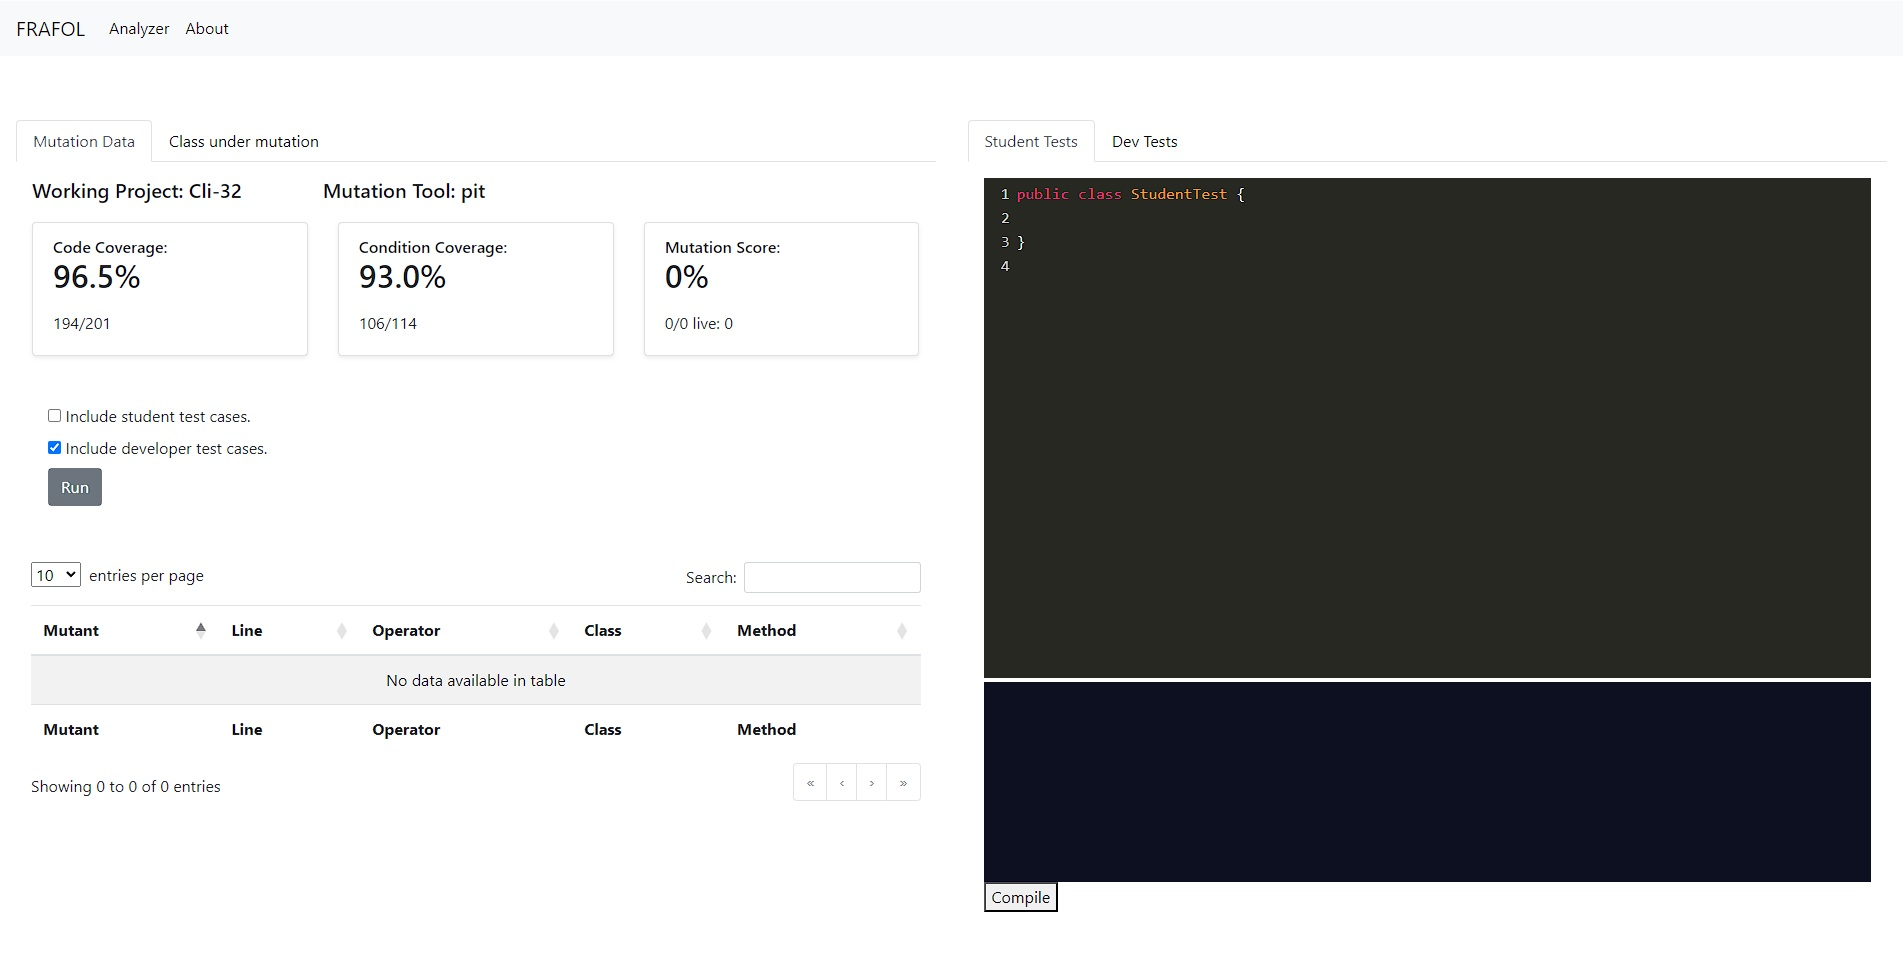
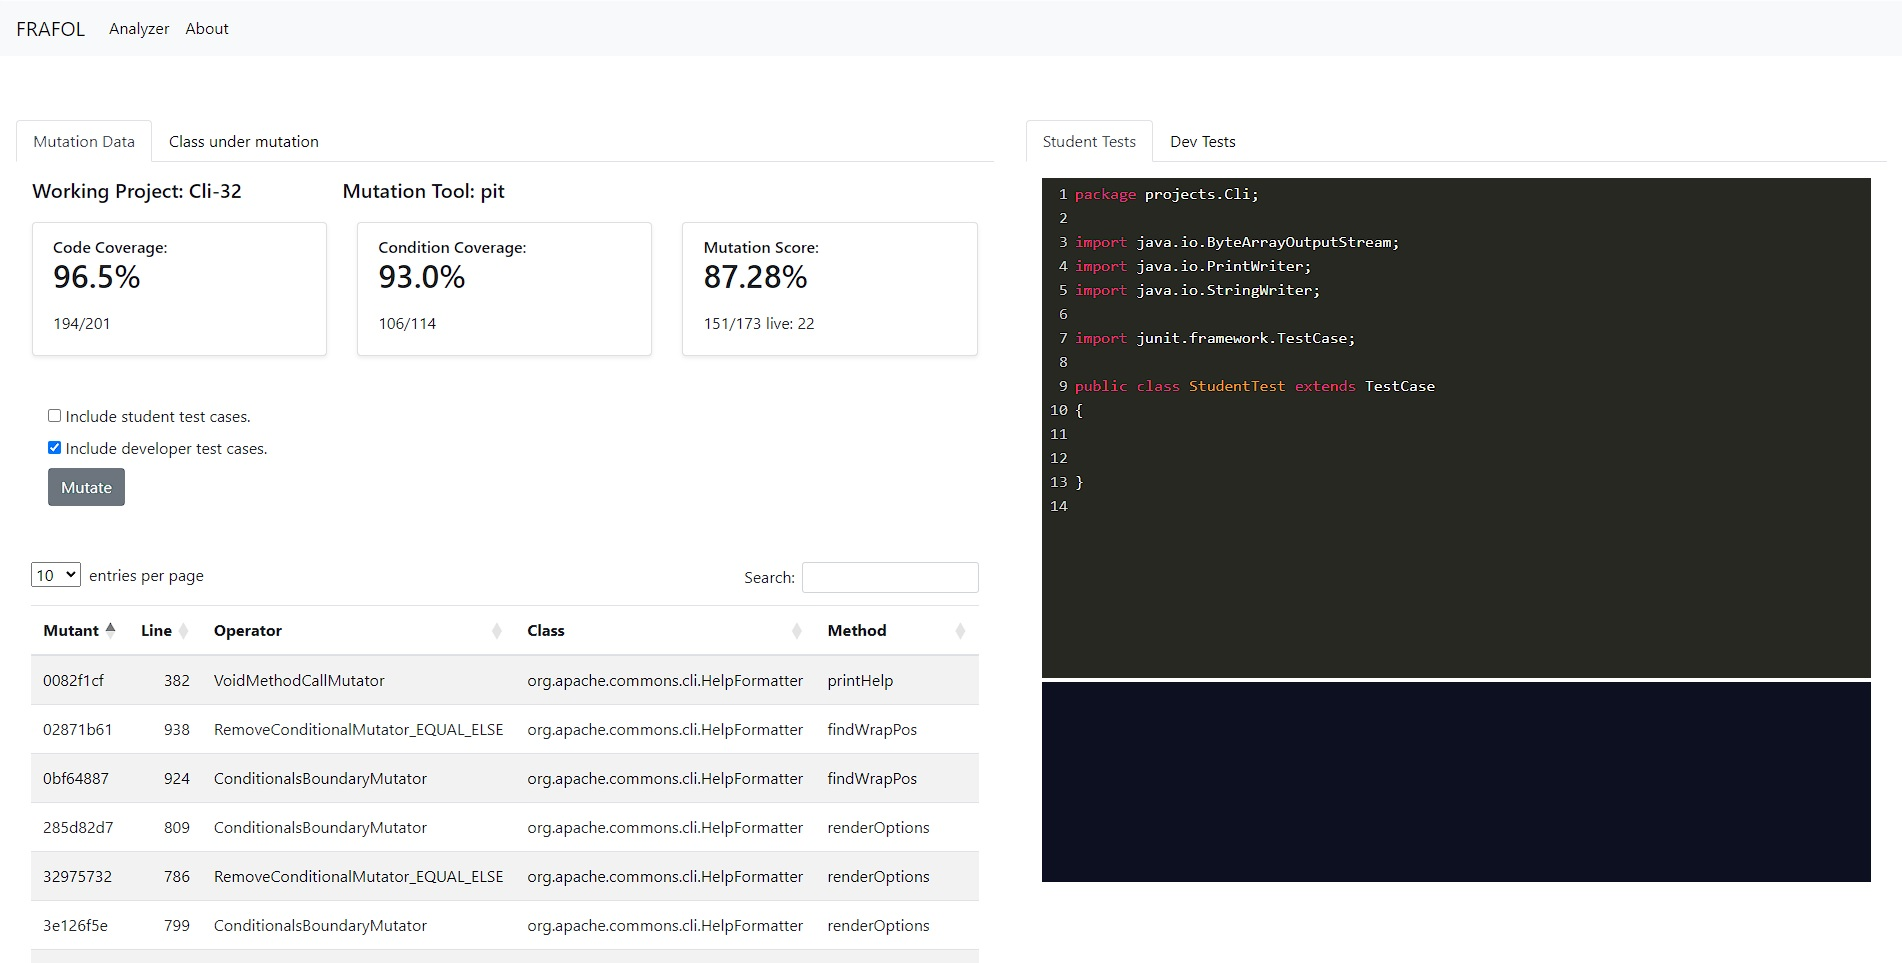
Fixed some display issues

diff --git a/Defects4j-FlaskApp/templates/project.html b/Defects4j-FlaskApp/templates/project.html
@@ -10,7 +10,7 @@
                     aria-selected="false">Mutation Data</button>
                     <button class="nav-link" id="nav-class-tab" data-toggle="tab"
                     data-target="#nav-class" type="button" role="tab" aria-controls="nav-class"
-                    aria-selected="false">Class under mutation</button>
+                    aria-selected="false" onclick="refreshEditor(this.id)">Class under mutation</button>
                 </div>
             </nav>
             <div class="tab-content" id="nav-tabContent">
@@ -136,7 +136,7 @@
                     aria-selected="true">Student Tests</button>
                     <button class="nav-link" id="nav-dev-tab" data-toggle="tab"
                     data-target="#nav-dev" type="button" role="tab" aria-controls="nav-dev"
-                    aria-selected="false">Dev Tests</button>
+                    aria-selected="false" onclick="refreshEditor(this.id)">Dev Tests</button>
                 </div>
             </nav>
             <div class="tab-content" id="nav-tabContent">
@@ -152,7 +152,7 @@
                 <div class="output pt-1 pr-3 pl-3 pb-3">
                     <textarea name="console" id="console"></textarea>
                     <button onclick="compile()">Compile</button>
-                </div>
+                </div> 
             </div>
         </div>
     </div>

diff --git a/Defects4j-FlaskApp/static/scripts/codemirror.js b/Defects4j-FlaskApp/static/scripts/codemirror.js
@@ -2,6 +2,7 @@ var editor = CodeMirror.fromTextArea(
     document.getElementById('editor'),{
     mode: "text/x-java",
     indentWithTabs: true,
+    autoRefresh:true,
     smartIndent: true,
     lineNumbers: true,
     lineWrapping: true,
@@ -17,6 +18,7 @@ var editor2 = CodeMirror.fromTextArea(
     document.getElementById('dev_suite'),{
     mode: "text/x-java",
     indentWithTabs: true,
+    autoRefresh:true,
     smartIndent: true,
     lineNumbers: true,
     lineWrapping: true,
@@ -32,6 +34,7 @@ var editor3 = CodeMirror.fromTextArea(
     document.getElementById('test_class'),{
     mode: "text/x-java",
     indentWithTabs: true,
+    autoRefresh:true,
     smartIndent: true,
     lineNumbers: true,
     lineWrapping: true,
@@ -51,6 +54,7 @@ var outputTerminal = CodeMirror.fromTextArea(
     lineWrapping: true,
     matchBrackets: true,
     autofocus: true,
+    readOnly: true,
     theme: "blackboard"
     }
 );

diff --git a/Defects4j-FlaskApp/templates/base.html b/Defects4j-FlaskApp/templates/base.html
@@ -81,6 +81,19 @@
         }
       }
 
+      function refreshEditor(id) {
+
+        if (id == "nav-class-tab") {
+          setTimeout(function() {
+              editor3.refresh();
+          },500);
+        } else if (id == "nav-dev-tab") {
+          setTimeout(function() {
+              editor2.refresh();
+          },500);
+        }
+      }
+
       function generate() {
         var code = editor.getValue(); 
         var studentTests = false;
@@ -237,6 +250,8 @@
         editor3.scrollTo(null, t - middleHeight - 5);
         editor3.setCursor({ line: lineNumber - 1, ch: 0 });
       }
+
+      document.addEventListener("DOMContentLoaded", get_versions());
     </script>
   </body>
 </html>

diff --git a/nodejs/app.js b/nodejs/app.js
@@ -40,7 +40,7 @@ app.post('/compile', (req, res) => {
   const javaCode = req.body.code;
   const cppath = req.body.cppath;
   const project = req.body.project;
-  const filePath = `/root/${project}/${req.body.stPath}/StudentTest.java`;
+  const filePath = `/root/${project}f/${req.body.stPath}/StudentTest.java`;
   console.log('FILEPATH: ' + filePath)
 
   // Write Java code to the file

diff --git a/Defects4j-FlaskApp/templates/index.html b/Defects4j-FlaskApp/templates/index.html
@@ -56,6 +56,6 @@
                 </div>
             </form>
         </div>
-    </div>  
+    </div>
 {% endblock %}
 

diff --git a/Defects4j-FlaskApp/defects4jUI.py b/Defects4j-FlaskApp/defects4jUI.py
@@ -5,6 +5,7 @@ import subprocess
 import json
 import pathlib
 import io
+import glob
 import re
 import pandas as pd
 
@@ -50,6 +51,29 @@ def get_projects_fromjson():
             db_file.write(json.dumps([]))
 
     return project_list
+
+def clear_files():
+    
+    path = '/root/' + session["project"] + 'f/tools_output/' + session["tool"] + '/*'
+    files = glob.glob(path)
+
+    for f in files:
+        os.remove(f)
+
+def load_editor():
+
+    source_path = "static/projectdata/projects/"+ session["project_name"] + "/StudentTest.java"
+    destination_path = "static/projectdata/StudentTest.java"
+
+    # Open the source file in read mode
+    with open(source_path, 'r') as source_file:
+        # Read the content from the source file
+        content = source_file.read()
+
+    # Open the destination file in write mode
+    with open(destination_path, 'w') as destination_file:
+        # Write the content to the destination file
+        destination_file.write(content)
 
 def major_parse(df):
         mutant_list = df["Mutant"].tolist()
@@ -125,13 +149,6 @@ def pit_parse(df):
             content = json.loads(j)
             operator_list.insert(i, content["mutator"][47:])
 
-        class_list = list()
-
-        for i, j in enumerate(json_list):
-            j = j.replace("\'", "\"")
-            content = json.loads(j)
-            class_list.insert(i, content["mutated_class"])
-
         method_list = list()
 
         for i, j in enumerate(json_list):
@@ -141,8 +158,8 @@ def pit_parse(df):
 
         sheet_data = list()
 
-        for item1, item2, item3, item4, item5 in zip(mutant_list, line_list, operator_list, class_list, method_list):
-            sheet_data.append((item1, item2, item3, item4, item5))
+        for item1, item2, item3, item4 in zip(mutant_list, line_list, operator_list, method_list):
+            sheet_data.append((item1, item2, item3, item4))
 
         return sheet_data
 
@@ -205,7 +222,14 @@ def summary():
     cmd = ("python3 " + path + " summary -p " + session["project_name"]
                    + " -b " + session["project_version"] + " -t " + session["tool"] + " $HOME/" + session["project"] + "f/tools_output/" + session["tool"] + filename)
     
-    output = subprocess.check_output(cmd, shell=True, text=True)
+    try: 
+
+        output = subprocess.check_output(cmd, shell=True, text=True, stderr=subprocess.STDOUT)
+
+    except subprocess.CalledProcessError as e:
+        
+        values = [0,0,0,0]
+        return values
 
     # Define pattern to match key-value pairs
     pattern = r'([^:]+):\s+(.*)'
@@ -216,12 +240,18 @@ def summary():
     # Convert matches to a dictionary
     data = {key.strip(): value.strip() for key, value in matches}
 
-    values = [data["Total mutants count"], data["Killed mutants count"], data["Live mutants count"], (round(float(data["Mutation score"]),4))*100]
+    values = [data["Total mutants count"], data["Killed mutants count"], data["Live mutants count"], round(float(data["Mutation score"])*100,2)]
 
     return values
 
 def save_testsuite(data):
     
+    path = "static/projectdata/projects/"+ session["project_name"] + "/StudentTest.java"
+    
+    file = open(path, "w")
+    file.write(data)
+    file.close()
+
     path = "static/projectdata/StudentTest.java"
     
     file = open(path, "w")
@@ -294,7 +324,7 @@ def load_project():
 
     match session["tool"]:
             case "pit":
-                table_header = ["Mutant", "Line", "Operator", "Class", "Method"]
+                table_header = ["Mutant", "Line", "Operator", "Method"]
             case "major":
                 table_header = ["Mutant", "Line", "Operator", "Original", "Mutated"]
             case _:
@@ -302,6 +332,8 @@ def load_project():
 
     session["metric_data"] = coverage()
     session.modified = True
+
+    load_editor()
 
     return render_template('project.html', all_data = [session["project"], session["tool"]],
                             table_header = table_header, sheet_data = sheet_data,
@@ -311,13 +343,14 @@ def load_project():
 def generate():
     data = request.json
 
+    clear_files()
     save_testsuite(data['code'])
 
     student_tests = ""
     dev_tests = ""
 
     if data['studentTests']:
-        student_tests = " -t static/projectdata/StudentTest.java"
+        student_tests = " -t static/projectdata/projects/"+ session["project_name"] + "/StudentTest.java"
 
     if data['devTests']:
         dev_tests = " --all-dev"
@@ -334,6 +367,9 @@ def working_project():
     cmd = ("defects4j export -p cp.test -w $HOME/" + session["project"] + "f")
     output = subprocess.check_output(cmd, shell=True, text=True)
 
+    match session["project"]:
+        case "Cli-32":
+            output = "/root/Cli-32f/target/classes:/root/Cli-32f/target/test-classes:/root/Cli-32f/file:/defects4j/framework/projects/lib/junit-4.11.jar:/defects4j/framework/projects/Cli/lib/commons-lang/commons-lang/2.1/commons-lang-2.1.jar:/defects4j/framework/projects/Cli/lib/jdepend/jdepend/2.5/jdepend-2.5.jar:/defects4j/framework/projects/Cli/lib/junit-addons/junit-addons/1.4/junit-addons-1.4.jar:/defects4j/framework/projects/Cli/lib/junit/junit/3.8.1/junit-3.8.1.jar:/defects4j/framework/projects/Cli/lib/junit/junit/3.8.2/junit-3.8.2.jar:/defects4j/framework/projects/Cli/lib/junit/junit/4.11/junit-4.11.jar:/defects4j/framework/projects/Cli/lib/junit/junit/4.12/junit-4.12.jar:/defects4j/framework/projects/Cli/lib/junit/junit/4.8.2/junit-4.8.2.jar:/defects4j/framework/projects/Cli/lib/lib/junit-addons/junit-addons/1.4/junit-addons-1.4.jar:/defects4j/framework/projects/Cli/lib/lib/junit/junit/3.8.1/junit-3.8.1.jar:/defects4j/framework/projects/Cli/lib/lib/junit/junit/3.8.2/junit-3.8.2.jar:/defects4j/framework/projects/Cli/lib/lib/junit/junit/4.11/junit-4.11.jar:/defects4j/framework/projects/Cli/lib/lib/junit/junit/4.12/junit-4.12.jar:/defects4j/framework/projects/Cli/lib/lib/junit/junit/4.8.2/junit-4.8.2.jar:/defects4j/framework/projects/Cli/lib/lib/org/hamcrest/hamcrest-core/1.3/hamcrest-core-1.3.jar:/defects4j/framework/projects/Cli/lib/org/hamcrest/hamcrest-core/1.3/hamcrest-core-1.3.jar"
     return jsonify({'project': session["project"], 'cppath': output})
 
 @app.route('/project_versions', methods=['post'])
@@ -380,7 +416,7 @@ def analyze():
     match session["tool"]:
             case "pit":
                 sheet_data = pit_parse(df)
-                table_header = ["Mutant", "Line", "Operator", "Class", "Method"]
+                table_header = ["Mutant", "Line", "Operator", "Method"]
             case "major":
                 sheet_data = major_parse(df)
                 table_header = ["Mutant", "Line", "Operator", "Original", "Mutated"]

diff --git a/Defects4j-FlaskApp/static/projectdata/projects/Gson/StudentTest.java b/Defects4j-FlaskApp/static/projectdata/projects/Gson/StudentTest.java
@@ -1,0 +1,13 @@
+package com.google.gson.stream;
+
+import junit.framework.TestCase;
+
+import java.io.IOException;
+import java.io.StringWriter;
+import java.math.BigDecimal;
+import java.math.BigInteger;
+
+public final class StudentTest extends TestCase {
+
+    
+}

diff --git a/Defects4j-FlaskApp/static/projectdata/projects/Cli/StudentTest.java b/Defects4j-FlaskApp/static/projectdata/projects/Cli/StudentTest.java
@@ -1,0 +1,13 @@
+package projects.Cli;
+
+import java.io.ByteArrayOutputStream;
+import java.io.PrintWriter;
+import java.io.StringWriter;
+
+import junit.framework.TestCase;
+
+public class StudentTest extends TestCase
+{
+
+
+}

diff --git a/Defects4j-FlaskApp/static/projectdata/StudentTest.java b/Defects4j-FlaskApp/static/projectdata/StudentTest.java
@@ -1,3 +1,3 @@
 public class StudentTest {
-
+    
 }
